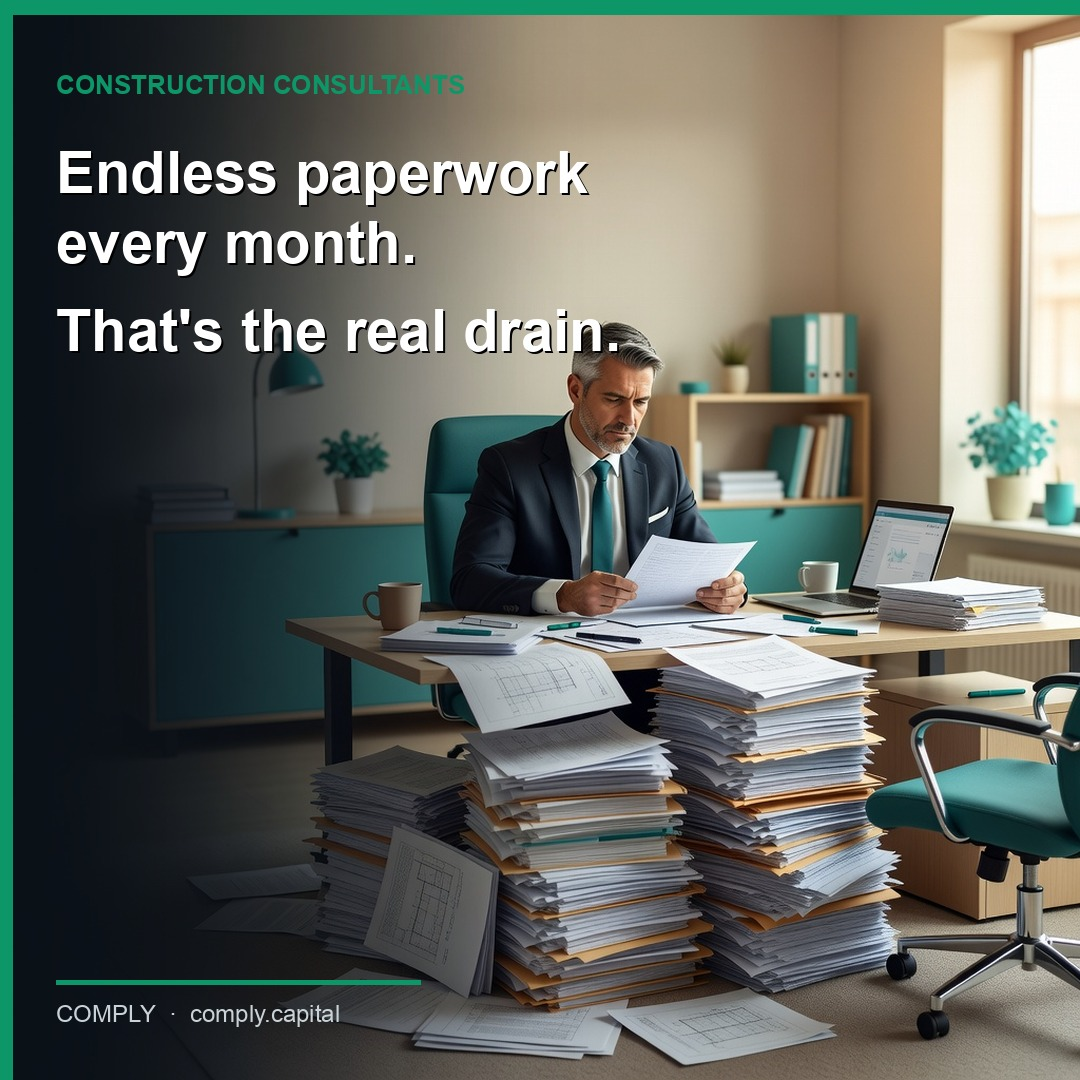
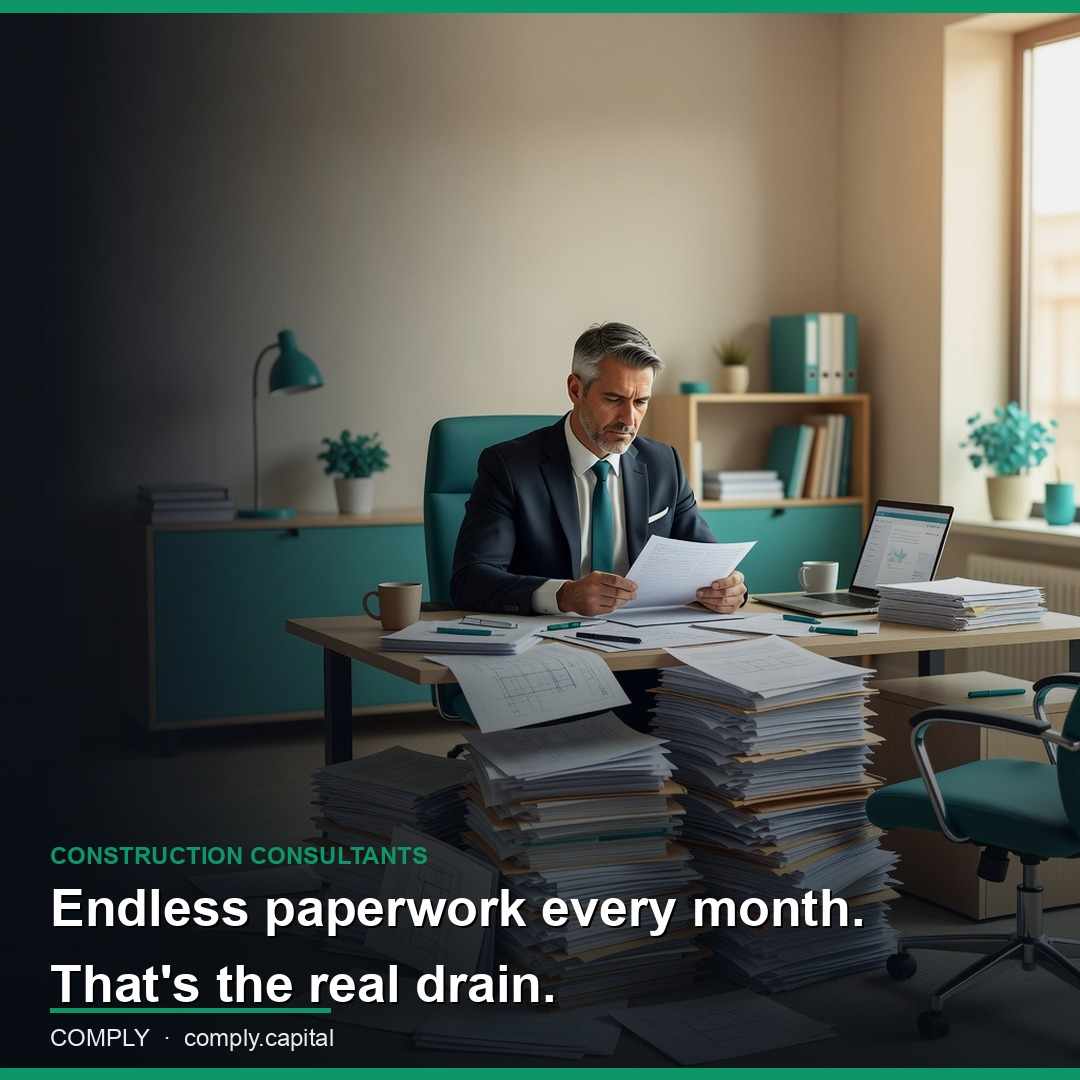
COMPLY visual ads v3: face-safe bottom text band

diff --git a/comply-visual-ads.html b/comply-visual-ads.html
@@ -12,14 +12,14 @@ figcaption{padding:10px 12px;font-size:13px;color:#9ab}
 .note{padding:0 32px 8px;color:#9ab;max-width:920px;line-height:1.45}
 </style></head><body>
 <header><h1>COMPLY · Visual image posts</h1>
-<p>Photo + clean type. Disruptive, still corporate. No video.</p></header>
-<p class="note"><strong style="color:#fff">v2 photo set</strong> — corporate photography with plain-English headlines. Image posts only.</p>
-<div class="grid"><figure><img src="assets/comply-visual-ads/01-endless-paperwork.jpg?v=photo1" alt="01-endless-paperwork" loading="lazy"><figcaption>01-endless-paperwork</figcaption></figure>
-<figure><img src="assets/comply-visual-ads/02-bank-not-slow.jpg?v=photo1" alt="02-bank-not-slow" loading="lazy"><figcaption>02-bank-not-slow</figcaption></figure>
-<figure><img src="assets/comply-visual-ads/03-62-bounce.jpg?v=photo1" alt="03-62-bounce" loading="lazy"><figcaption>03-62-bounce</figcaption></figure>
-<figure><img src="assets/comply-visual-ads/04-half-the-job.jpg?v=photo1" alt="04-half-the-job" loading="lazy"><figcaption>04-half-the-job</figcaption></figure>
-<figure><img src="assets/comply-visual-ads/05-one-system.jpg?v=photo1" alt="05-one-system" loading="lazy"><figcaption>05-one-system</figcaption></figure>
-<figure><img src="assets/comply-visual-ads/w01-endless-paperwork.jpg?v=photo1" alt="w01-endless-paperwork" loading="lazy"><figcaption>w01-endless-paperwork</figcaption></figure>
-<figure><img src="assets/comply-visual-ads/w02-bank-not-slow.jpg?v=photo1" alt="w02-bank-not-slow" loading="lazy"><figcaption>w02-bank-not-slow</figcaption></figure>
-<figure><img src="assets/comply-visual-ads/w03-one-system.jpg?v=photo1" alt="w03-one-system" loading="lazy"><figcaption>w03-one-system</figcaption></figure></div>
+<p>Photo + clean type. Text in bottom safe zone — faces clear.</p></header>
+<p class="note"><strong style="color:#fff">v3 face-safe</strong> — headlines sit under a bottom gradient so they don’t cover people.</p>
+<div class="grid"><figure><img src="assets/comply-visual-ads/01-endless-paperwork.jpg?v=face-safe2" alt="01-endless-paperwork" loading="lazy"><figcaption>01-endless-paperwork</figcaption></figure>
+<figure><img src="assets/comply-visual-ads/02-bank-not-slow.jpg?v=face-safe2" alt="02-bank-not-slow" loading="lazy"><figcaption>02-bank-not-slow</figcaption></figure>
+<figure><img src="assets/comply-visual-ads/03-62-bounce.jpg?v=face-safe2" alt="03-62-bounce" loading="lazy"><figcaption>03-62-bounce</figcaption></figure>
+<figure><img src="assets/comply-visual-ads/04-half-the-job.jpg?v=face-safe2" alt="04-half-the-job" loading="lazy"><figcaption>04-half-the-job</figcaption></figure>
+<figure><img src="assets/comply-visual-ads/05-one-system.jpg?v=face-safe2" alt="05-one-system" loading="lazy"><figcaption>05-one-system</figcaption></figure>
+<figure><img src="assets/comply-visual-ads/w01-endless-paperwork.jpg?v=face-safe2" alt="w01-endless-paperwork" loading="lazy"><figcaption>w01-endless-paperwork</figcaption></figure>
+<figure><img src="assets/comply-visual-ads/w02-bank-not-slow.jpg?v=face-safe2" alt="w02-bank-not-slow" loading="lazy"><figcaption>w02-bank-not-slow</figcaption></figure>
+<figure><img src="assets/comply-visual-ads/w03-one-system.jpg?v=face-safe2" alt="w03-one-system" loading="lazy"><figcaption>w03-one-system</figcaption></figure></div>
 </body></html>
